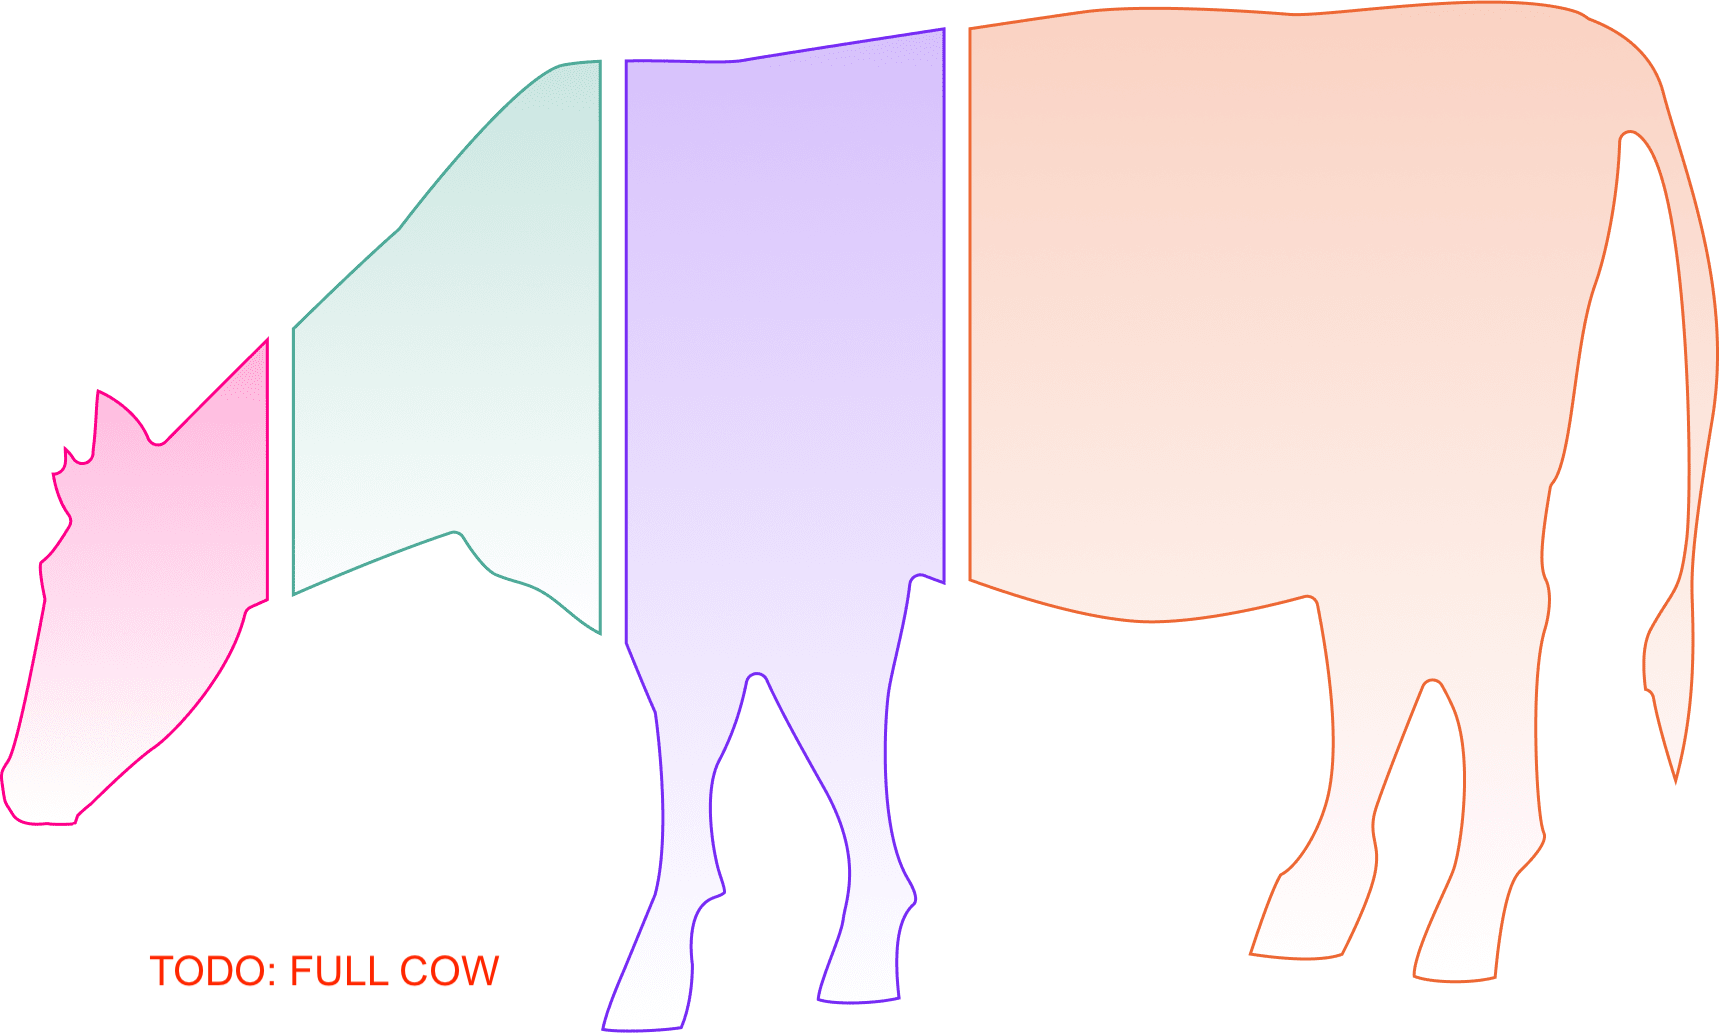
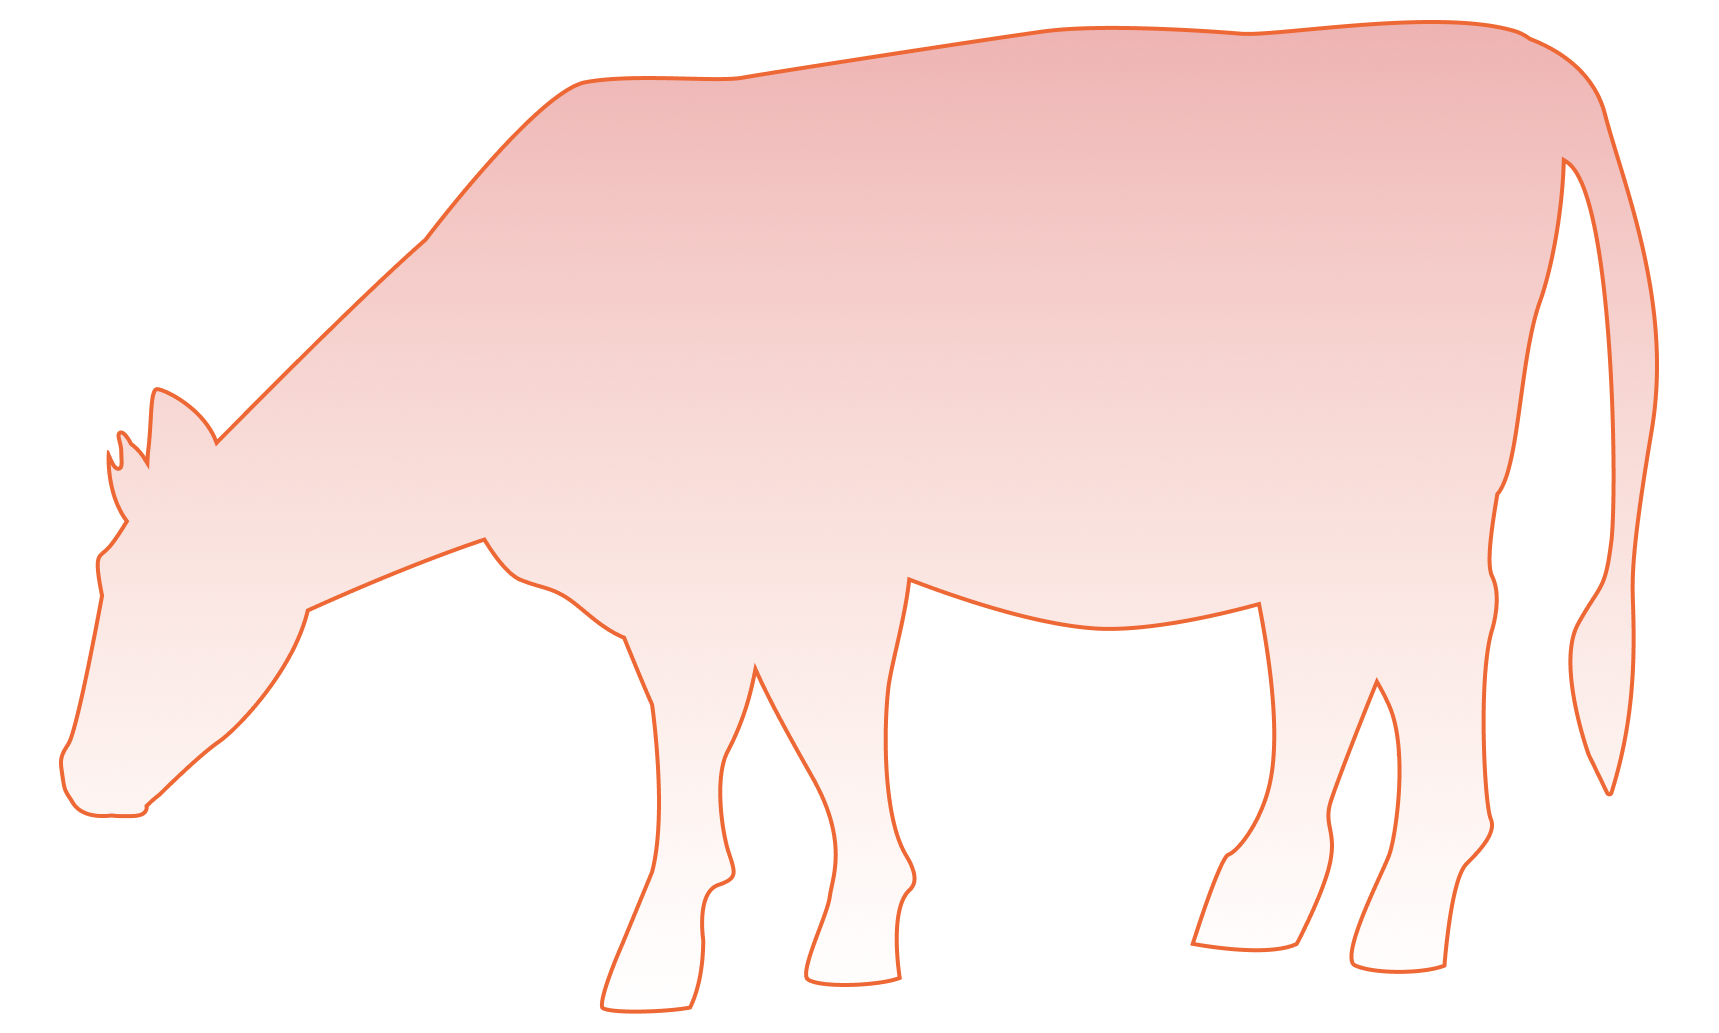
Improvements: Cow images, stats, urls, and data for examples (gnosis/cowswap#11)
* Fix batch tx and count

* Fix metrics

* Update swagger

* Add new cow images

* Improve style

* Use optimize images

* Delete scroll down button

diff --git a/const/batches.ts b/const/batches.ts
@@ -38,7 +38,7 @@ export const batches = [
       label: 'View on Etherscan',
       url: 'https://etherscan.io/tx/0x691d1a8ba39c036e841b6e2ed970f9068ac4a27b61955afb852f11019f2ff4d8'
     },
-    visual: 'images/cow-graph-fullCow.png',
+    visual: 'images/cow-graph-fullCow-64.png',
     bars: [
 
       { id: 4, network: 'COW', percent: 100 },
@@ -64,7 +64,7 @@ export const batches = [
           * Tx cost = 696.17$
           * Ether (USD Price): 1,422.18 / 0.484793298289219619 = 2,933.5801567776
           * Gas Price = 108.239868575
-          * Gas per user = 2,297,936/27 = 85,108.7407407407
+          * Gas per user = 2,297,936/26 = 88,382.1538461538
         
         Volumes:
             Total Volume = 11,384.51
@@ -87,7 +87,7 @@ export const batches = [
               * Gas cost per trade Sushiswap = (134,047 * 108.239868575 * 1e-9) * 2,933.5801567776 = 42.5639882291
               * Gas cost Sushiswap/Uniswap together = 1,106.6636939566$
               * Liquidity Fees (that would have payed if traded) = 0.003 * 11,384.51 = 34.15353
-              * Improvement of gas compared to sushiswap = 100 * (134,047 - 85,108) / 134,047 = 36.5088364529%
+              * Improvement of gas compared to sushiswap = 100 * (134,047 - 88,382) / 134,047 = 34.0664095429%
         
             
         
@@ -96,31 +96,28 @@ export const batches = [
               * Uniswap Fee (if traded in Uni) = 0.003 * 3,115.46 = 9.34638$
               * Total Fee (USD) = 173.99$            
               * Total saved = 1,106.6636939566 + 34.15353 - 173.99 - 4.37817 - 9.34638 = 953.1026739566
-              * Solvers payed Fee = 
-              * Solvers profited = 
-              * 
   */
   {
     id: 2,
     label: 'Partial CoW',
     summary: "The more traders, the more savings",
-    description: "The batch costed 2,297,936 gas, but it was split among 27 traders. This reduced the gas from 134K to 85K per trade.",
+    description: "The batch costed 2,297,936 gas, but it was split among 26 traders. This reduced the gas from 134K to 88K per trade.",
     link: {
       label: 'View on Etherscan',
-      url: 'https://etherscan.io/tx/0xc9761a9e40258065df485236fd6105d6d3678e46c80a0130c5c1f3f6d9e560a9'
+      url: 'https://etherscan.io/tx/0x172bddae0015331f4b357905ff7995389597a38294a00b4b13e90c1d70884785'
     },
     metrics: [{
       label: 'Trades',
-      value: 27
+      value: 26
     }, {
       label: 'Gas cost',
-      value: '36% cheaper'
+      value: '34% cheaper'
     }],
-    visual: 'images/cow-graph-partialCow.png',
+    visual: 'images/cow-graph-partialCow-64.png',
     bars: [
-      { id: 1, network: 'SUSHI', percent: 12.81 },
-      { id: 2, network: 'UNIV2', percent: 27.36 },
-      { id: 4, network: 'COW', percent: 59.83 },
+      { id: 1, network: 'UNIV2', percent: 27.36 },
+      { id: 2, network: 'SUSHI', percent: 12.81 },
+      { id: 3, network: 'COW', percent: 59.83 },
     ]
   },
 
@@ -145,7 +142,7 @@ export const batches = [
       label: 'Surplus',
       value: '$3,176.63'
     }],
-    visual: 'images/cow-graph-noCow.png',
+    visual: 'images/cow-graph-noCow-64.png',
     bars: [
       { id: 1, network: 'CURVE', percent: 100 }
     ]

diff --git a/pages/index.tsx b/pages/index.tsx
@@ -10,7 +10,7 @@ import { GET_QUOTE } from '@/const/api'
 import Layout from '@/components/Layout'
 import { ButtonWrapper } from '@/components/Button'
 import CowSlider, { CowSliderWrapper } from '@/components/CowSlider'
-import { Section, SubTitle, ScrollDownButton, SectionImage, IconList, IconListItem, Metrics, CheckList, ApiWrapper, ApiTool, ApiCurlCommand, ApiParams } from '../const/styles/pages/index'
+import { Section, SubTitle, SectionImage, IconList, IconListItem, Metrics, CheckList, ApiWrapper, ApiTool, ApiCurlCommand, ApiParams } from '../const/styles/pages/index'
 import SocialList from '@/components/SocialList'
 import Button from '@/components/Button'
 
@@ -48,7 +48,6 @@ export default function Home({ metricsData, siteConfigData }) {
         <CowSliderWrapper>
           <CowSlider />
         </CowSliderWrapper>
-        <ScrollDownButton onClick={handleScrollDown}>Scroll down</ScrollDownButton>
       </Section>
 
       {/* 2nd section */}

diff --git a/const/styles/pages/index.ts b/const/styles/pages/index.ts
@@ -191,42 +191,6 @@ export const SectionImage = styled.div<{ centerMobile?: boolean, margin?: string
   }
 `
 
-export const ScrollDownButton = styled.button`
-  display: flex;
-  width: 14rem;
-  margin: 0 auto;
-  left: 0;
-  right: 0;
-  flex: 0;
-  position: absolute;
-  bottom: 3.2rem;
-  justify-content: center;
-  align-items: center;
-  background: none;
-  border: 0;
-  color: ${Color.grey};
-  gap: 1rem;
-  font-size: ${Font.sizeDefault};
-  /* animation: floating 2s linear 1s infinite alternate; */
-
-  ${Media.mobile} {
-    display: none;
-  }
-
-  &::before {
-    content: "";
-    display: block;
-    width: 2rem;
-    height: 2rem;
-    background: url('images/icons/handDown.svg') no-repeat center/contain;
-  }
-
-  /* @keyframes floating {
-    from {transform: translateY(0)}
-    to {transform: translateY(-1rem)}
-  } */
-`
-
 export const Metrics = styled.div`
   display: flex;
   flex-flow: row wrap;

diff --git a/const/metrics.ts b/const/metrics.ts
@@ -1,7 +1,11 @@
 const metrics = [
-  {label: "Total Volume", value: "$3B+"},
-  {label: "Total Orders", value: "81K+"},
-  {label: "Fees Collected", value: "$100K"}
+  // https://dune.xyz/gnosis.protocol/Gnosis-Protocol-V2
+  {label: "Total Volume", value: "$4B+"},
+  {label: "All Time Trades", value: "165K+"},
+
+  // https://dune.xyz/gnosis.protocol/GPv2-Trader-Surplus
+  //  Resonable + Unusual
+  {label: "Surplus generated for users", value: "$27M+"}
 ]
 
 export default metrics

diff --git a/const/meta.ts b/const/meta.ts
@@ -10,7 +10,7 @@ export const siteConfig = {
     swap: "https://cowswap.exchange",
     docs: "https://docs.cow.fi",
     api: API_BASE_URL + "/mainnet",
-    apiDocs: API_BASE_URL + "/mainnet/",
+    apiDocs: API_BASE_URL + "/docs",
     analytics: "https://dune.xyz/gnosis.protocol/Gnosis-Protocol-V2",
     explorer: "https://explorer.cow.fi"
   },

diff --git a/components/CowSlider.tsx b/components/CowSlider.tsx
@@ -172,12 +172,9 @@ export const CowVisual = styled.div`
   > img {
     width: 100%;
     object-fit: contain;
-    
-    // TODO: Some help to style things 🙏
     max-height: 300px;
-
     height: auto;
-    padding: 2.4rem 0;
+    padding: 0 0 1rem 0;
   }
 `
 
